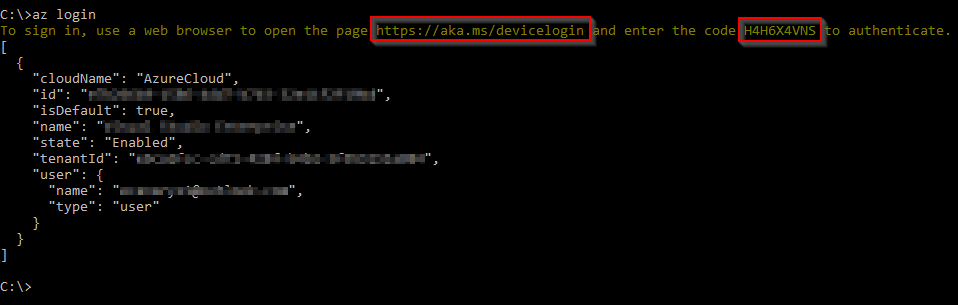
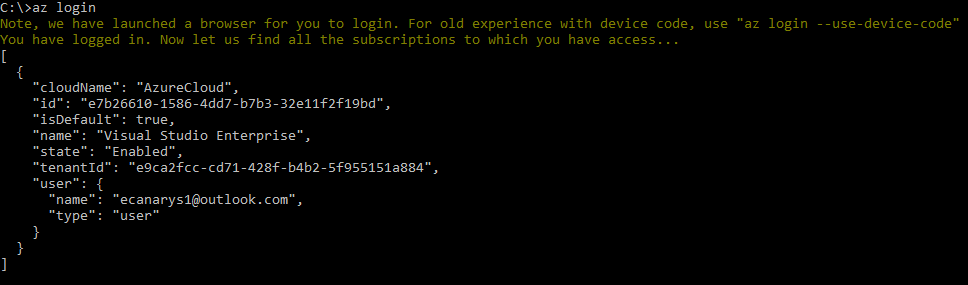
updated images

diff --git a/labs/vstsextend/kubernetes/readme.md b/labs/vstsextend/kubernetes/readme.md
@@ -202,30 +202,7 @@ Since the connections are not established during project provisioning, the two e
 
      ![azureendpoint](images/azureendpoint.png)
 
-1. **Kubernetes service connection**
-
-   * Click the **+ New Service connection** button, and select **Kubernetes** from the list. We can use this endpoint to connect **Azure DevOps** and the **Azure Container Service (AKS)**.
-
-     * **Connection Name**: Provide the connection name.
-
-     * **Server URL**: Provide the container service address in the format `https://{API server address}`
-
-     * **Kubeconfig**: To get the Kubeconfig value, run the following Azure commands in a command prompt launched with the Administrator privilege.
-
-      1. Type **az login** in the command prompt and hit Enter. Authorize your login by accessing the url given in the prompt and enter the provided unique code to complete the authentication.
-
-         ![Kubernetes Service Endpoint](images/azlogin.png)
-
-      1. Type **az aks get-credentials --resource-group yourResourceGroup --name yourAKSname** in the command prompt to get the access credentials for the Kubernetes cluster.
-
-         ![Kubernetes Service Endpoint](images/getkubeconfig.png)
-
-     * Navigate to the **.kube** folder under your home directory (eg: C:\Users\YOUR_HOMEDIR\ .kube)
-
-     * Copy the contents of the **config** file and paste it in the KubeConfig textarea. Check combobox to **Accept untrusted certificates** and **Verify connection**. Click the  **OK** button.
-
-       ![Kubernetes Service Endpoint](images/aksendpoint.png)
-
+     
 ## Exercise 2: Configure Build and Release definitions
 
 Now that the connections are established, we will manually map the created Azure endpoint, AKS and Azure Container Registry to the build and release definitions.
@@ -315,13 +292,21 @@ In this exercise, let us trigger a build manually and upon completion, an automa
 
     ![release_summary1](images/release_summary1.png)
 
-1. Once the release is complete, launch the command prompt and run the below command to see the pods running in AKS:
+1. Once the release is complete, launch the command prompt with Administrator privilege and run the below commands to see the pods running in AKS:
 
-    **`kubectl get pods`**
+    1. Type **`az login`** in the command prompt and hit Enter. Authorize your login by providing your credentials.
 
-    ![getpods](images/getpods.png)
+         ![Kubernetes Service Endpoint](images/azlogin.png)
 
-    The deployed web application is running in the displayed pods.
+    1. Type **`az aks get-credentials --resource-group yourResourceGroup --name yourAKSname`** in the command prompt to get the access credentials for the Kubernetes cluster.
+
+         ![Kubernetes Service Endpoint](images/getkubeconfig.png)
+
+    1. **`kubectl get pods`**
+
+        ![getpods](images/getpods.png)
+
+        The deployed web application is running in the displayed pods.
 
 1. To access the application, run the below command. If you see that **External-IP** is pending, wait for sometime until an IP is assigned.
 
